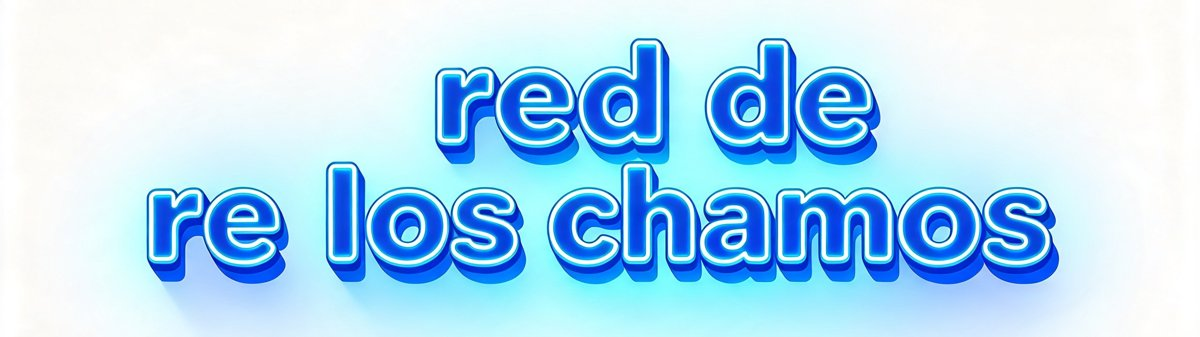
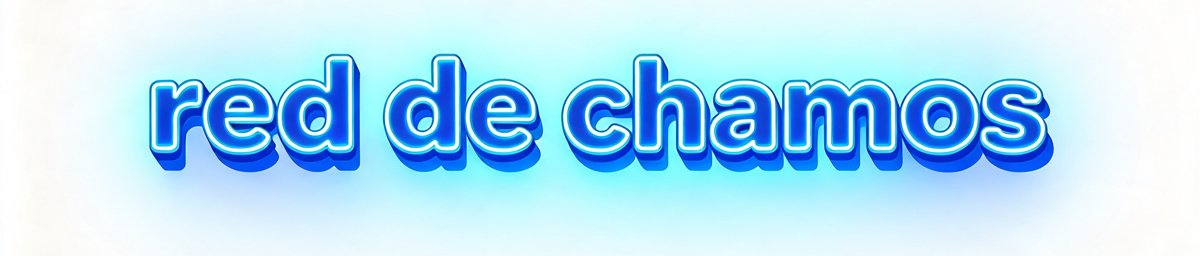
Muro y Mercado: letreros nuevos (Red de Chamos arriba del cuadro de publicar, Mercado de los Chamos en la Tienda)
Claude-Session: https://claude.ai/code/session_016SH2FLmY4JWmgoaF6y6GX7

diff --git a/patches/ChamosMuro.kt b/patches/ChamosMuro.kt
@@ -604,6 +604,14 @@ private fun ChamosMuroContenido(state: ChamosMuroState, onPestana: (Int) -> Unit
                 item(key = "nuevo") { CompositorMuro(state, onVender = { nuevaVenta = true }) }
             }
             if (pestana == 1) {
+                item(key = "banner_mercado") {
+                    Image(
+                        painter = painterResource(io.element.android.features.home.impl.R.drawable.chamos_mercado_banner),
+                        contentDescription = null,
+                        contentScale = ContentScale.FillWidth,
+                        modifier = Modifier.fillMaxWidth().clip(androidx.compose.foundation.shape.RoundedCornerShape(14.dp)),
+                    )
+                }
                 item(key = "vender") {
                     Text(
                         "🛒  Vender algo",

diff --git a/patches/reels.py b/patches/reels.py
@@ -9,6 +9,7 @@ shutil.copy(os.path.join(pdir, "ChamosMuro.kt"), os.path.join(d, "ChamosMuro.kt"
 res = os.path.join(root, "features/home/impl/src/main/res/drawable-nodpi")
 os.makedirs(res, exist_ok=True)
 shutil.copy(os.path.join(pdir, "..", "assets", "muro_banner.jpg"), os.path.join(res, "chamos_muro_banner.jpg"))
+shutil.copy(os.path.join(pdir, "..", "assets", "mercado_banner.jpg"), os.path.join(res, "chamos_mercado_banner.jpg"))
 
 def edit(path, pairs):
     s = open(path, encoding="utf-8").read()
